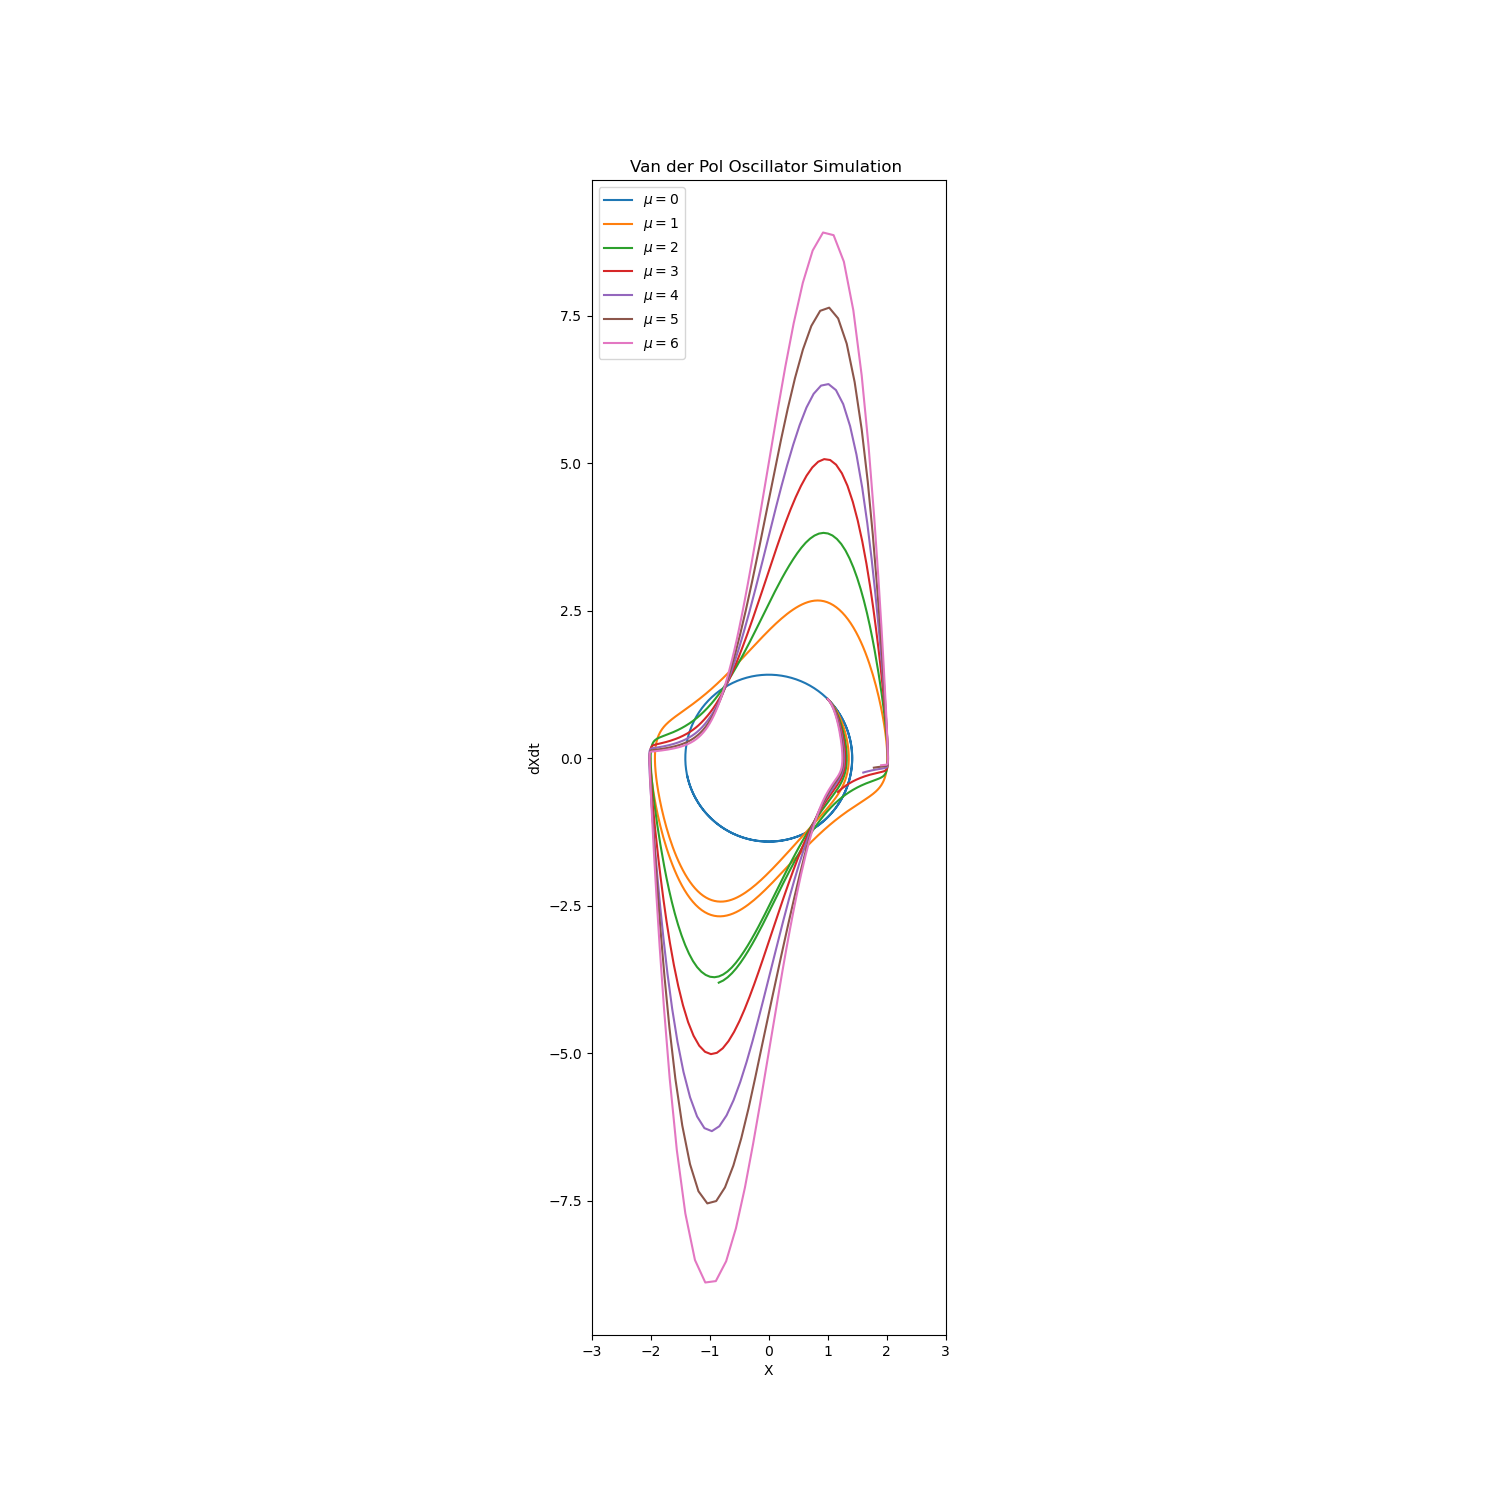
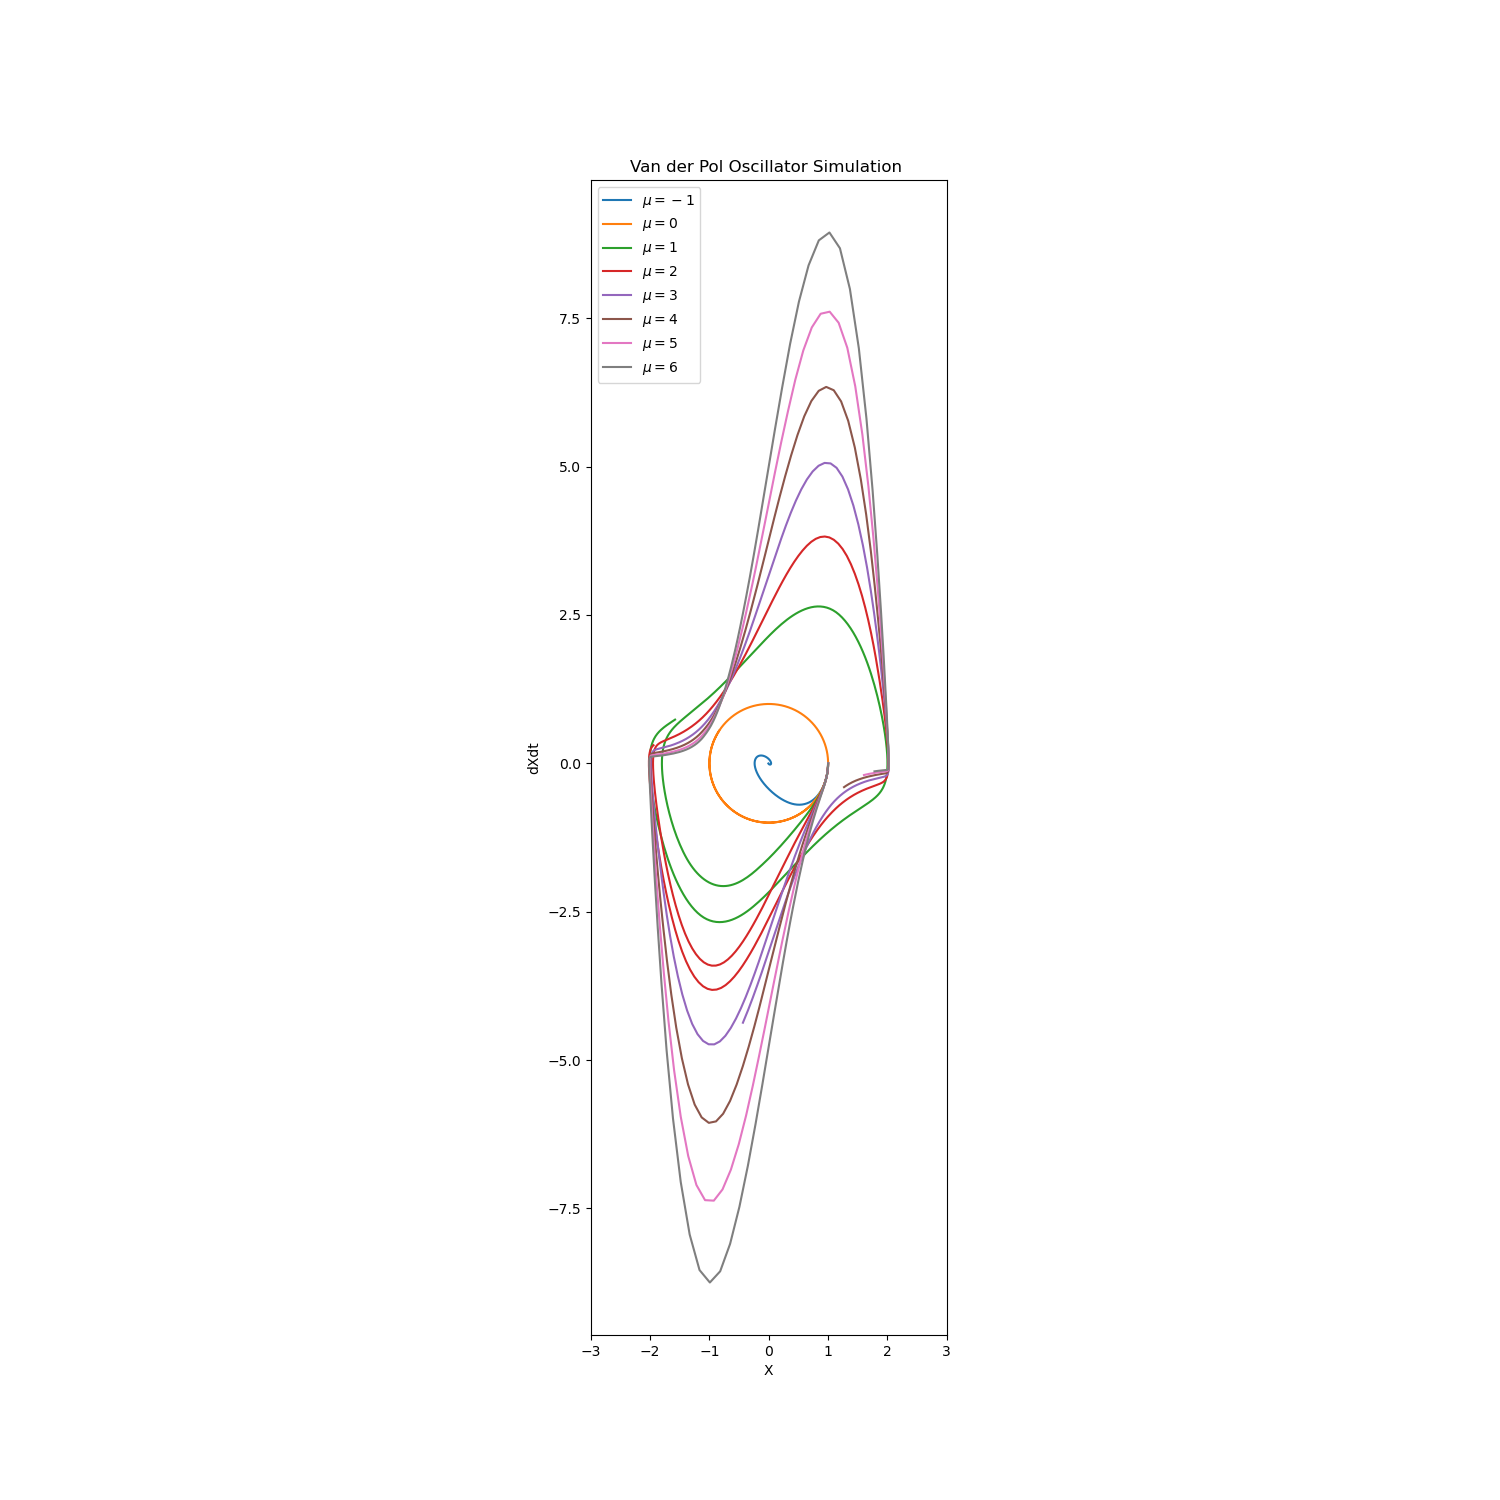
modify the plot

diff --git a/van_der_pol/van_der_pol.py b/van_der_pol/van_der_pol.py
@@ -61,9 +61,9 @@ def main(args):
 
 if __name__=='__main__':
     parser = argparse.ArgumentParser(description='simulation of the van der Pol Model')
-    parser.add_argument('--mu', type=list, default=[0,1,2,3,4,5,6],
+    parser.add_argument('--mu', type=list, default=[-1, 0,1,2,3,4,5,6],
         help='mu parameter, which indicates the nonlinearity and strength of damping')
         
-    parser.add_argument('--init', type=list, default=[1, 1],
+    parser.add_argument('--init', type=list, default=[1, 0],
                     help='initial condition for the IVP')
     main(parser.parse_args())
